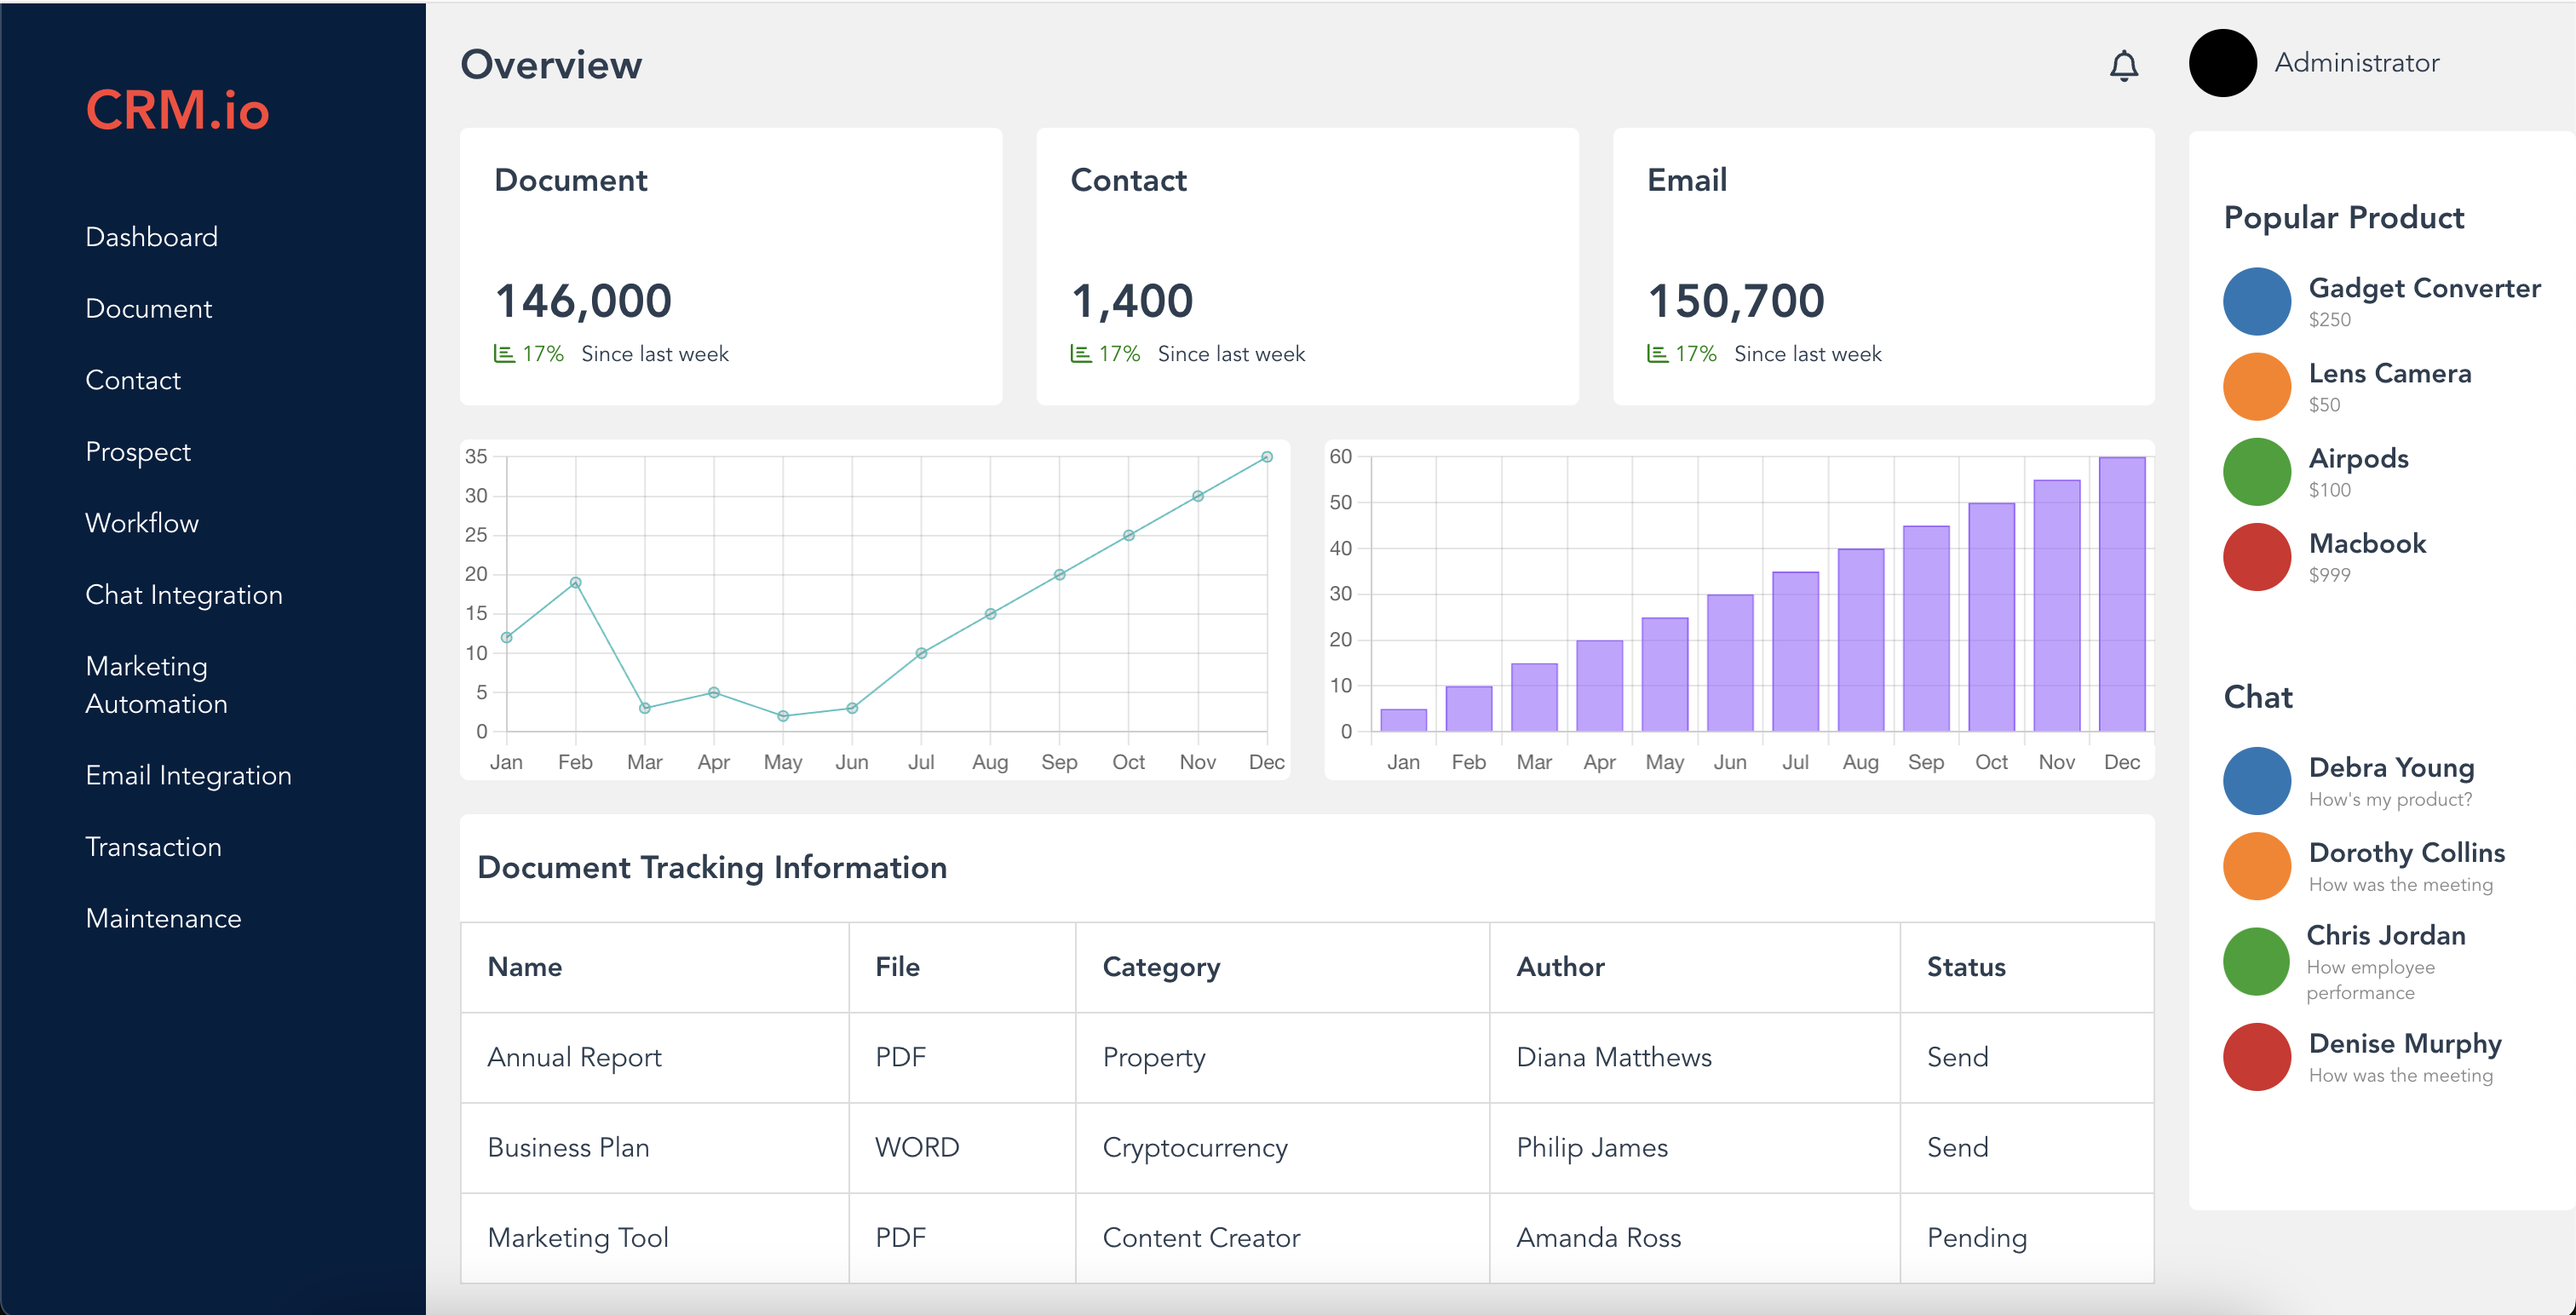
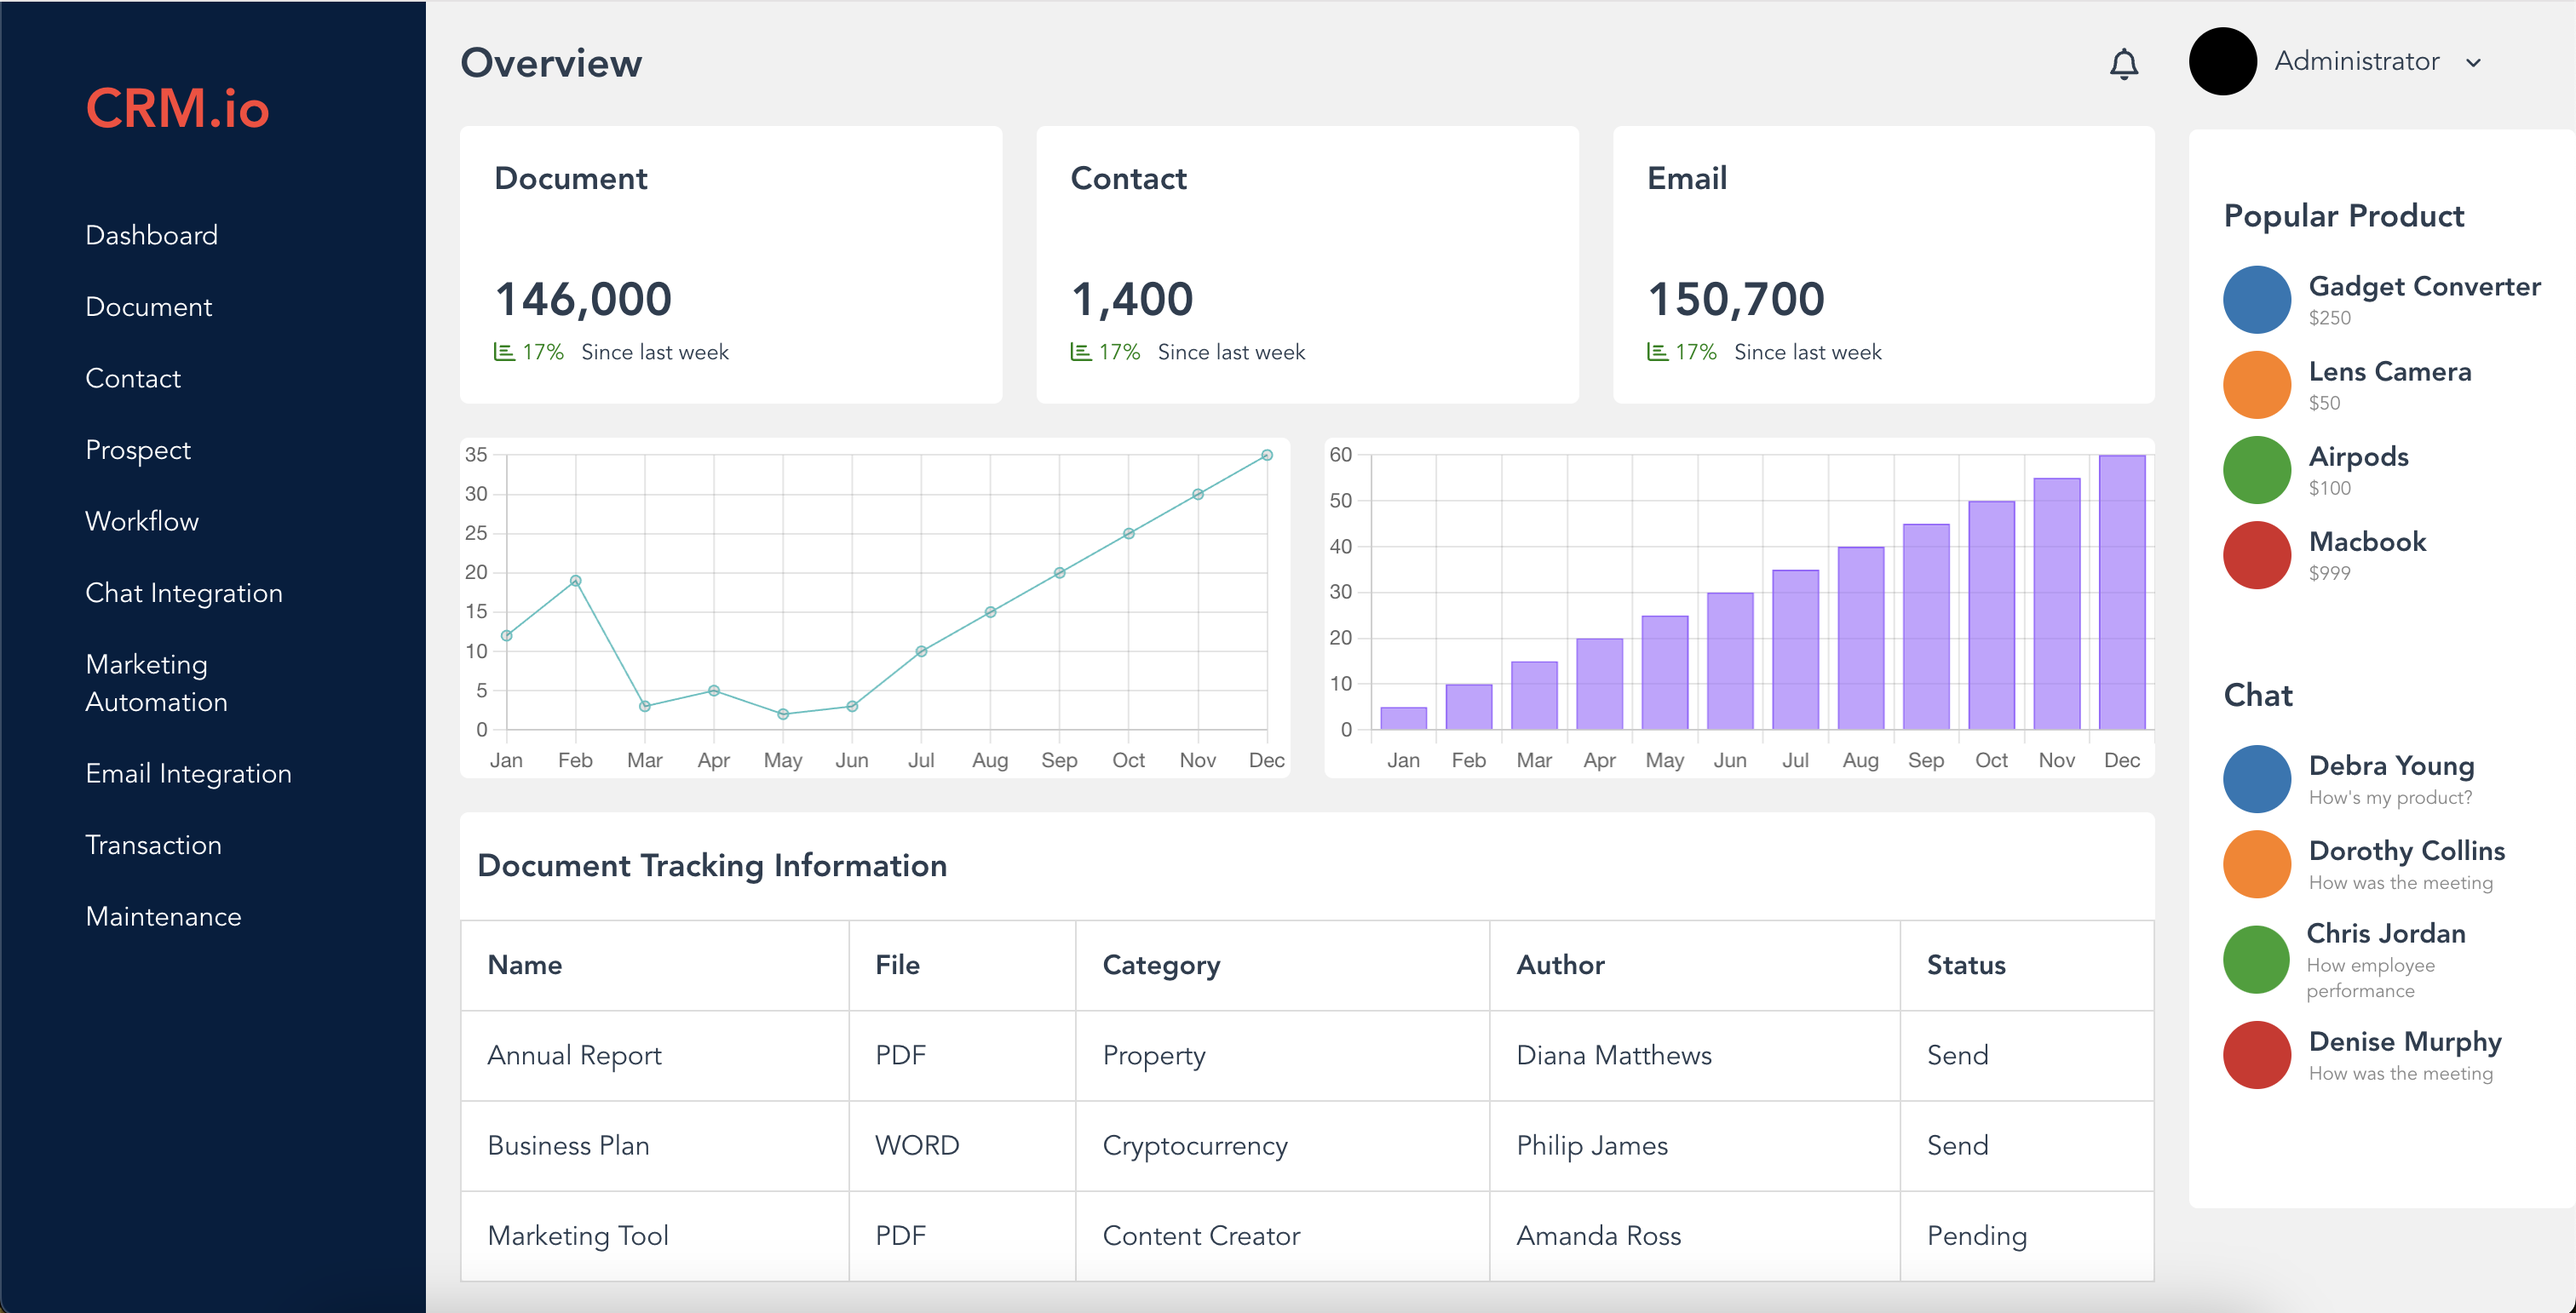
screenshot changed

diff --git a/src/components/DashboardView.vue b/src/components/DashboardView.vue
@@ -51,11 +51,8 @@ import TableData from "./TableData.vue";
 import ProfileAvatar from "./ProfileAvatar.vue";
 import { FontAwesomeIcon } from "@fortawesome/vue-fontawesome";
 
-import {
-  faBell,
-  faChevronDown,
-  faBarChart,
-} from "@fortawesome/free-regular-svg-icons";
+import { faBell, faBarChart } from "@fortawesome/free-regular-svg-icons";
+import { faAngleDown } from "@fortawesome/free-solid-svg-icons";
 import RightSidebar from "./RightSidebar.vue";
 
 export default {
@@ -72,7 +69,7 @@ export default {
   },
   data() {
     return {
-      faChevronDown,
+      faChevronDown: faAngleDown,
       bellIcon: faBell,
       documents: [
         {
